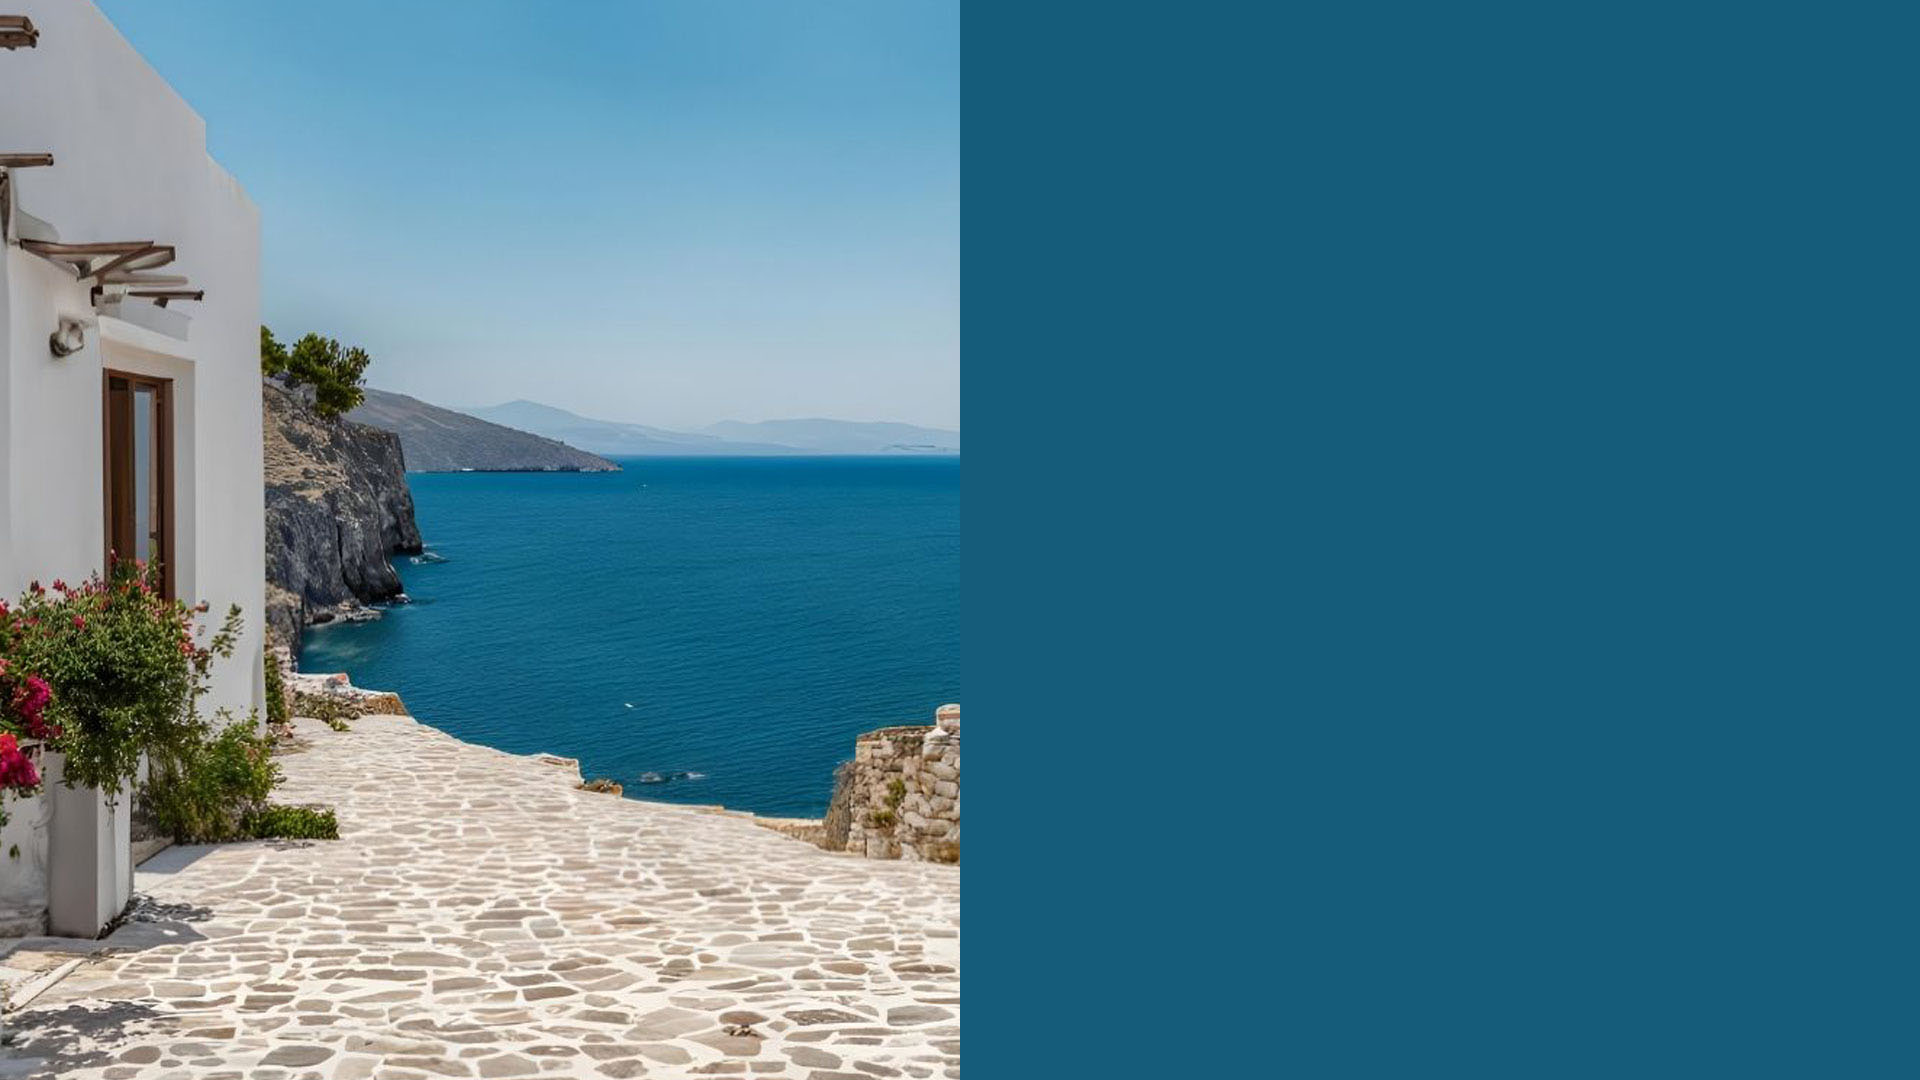
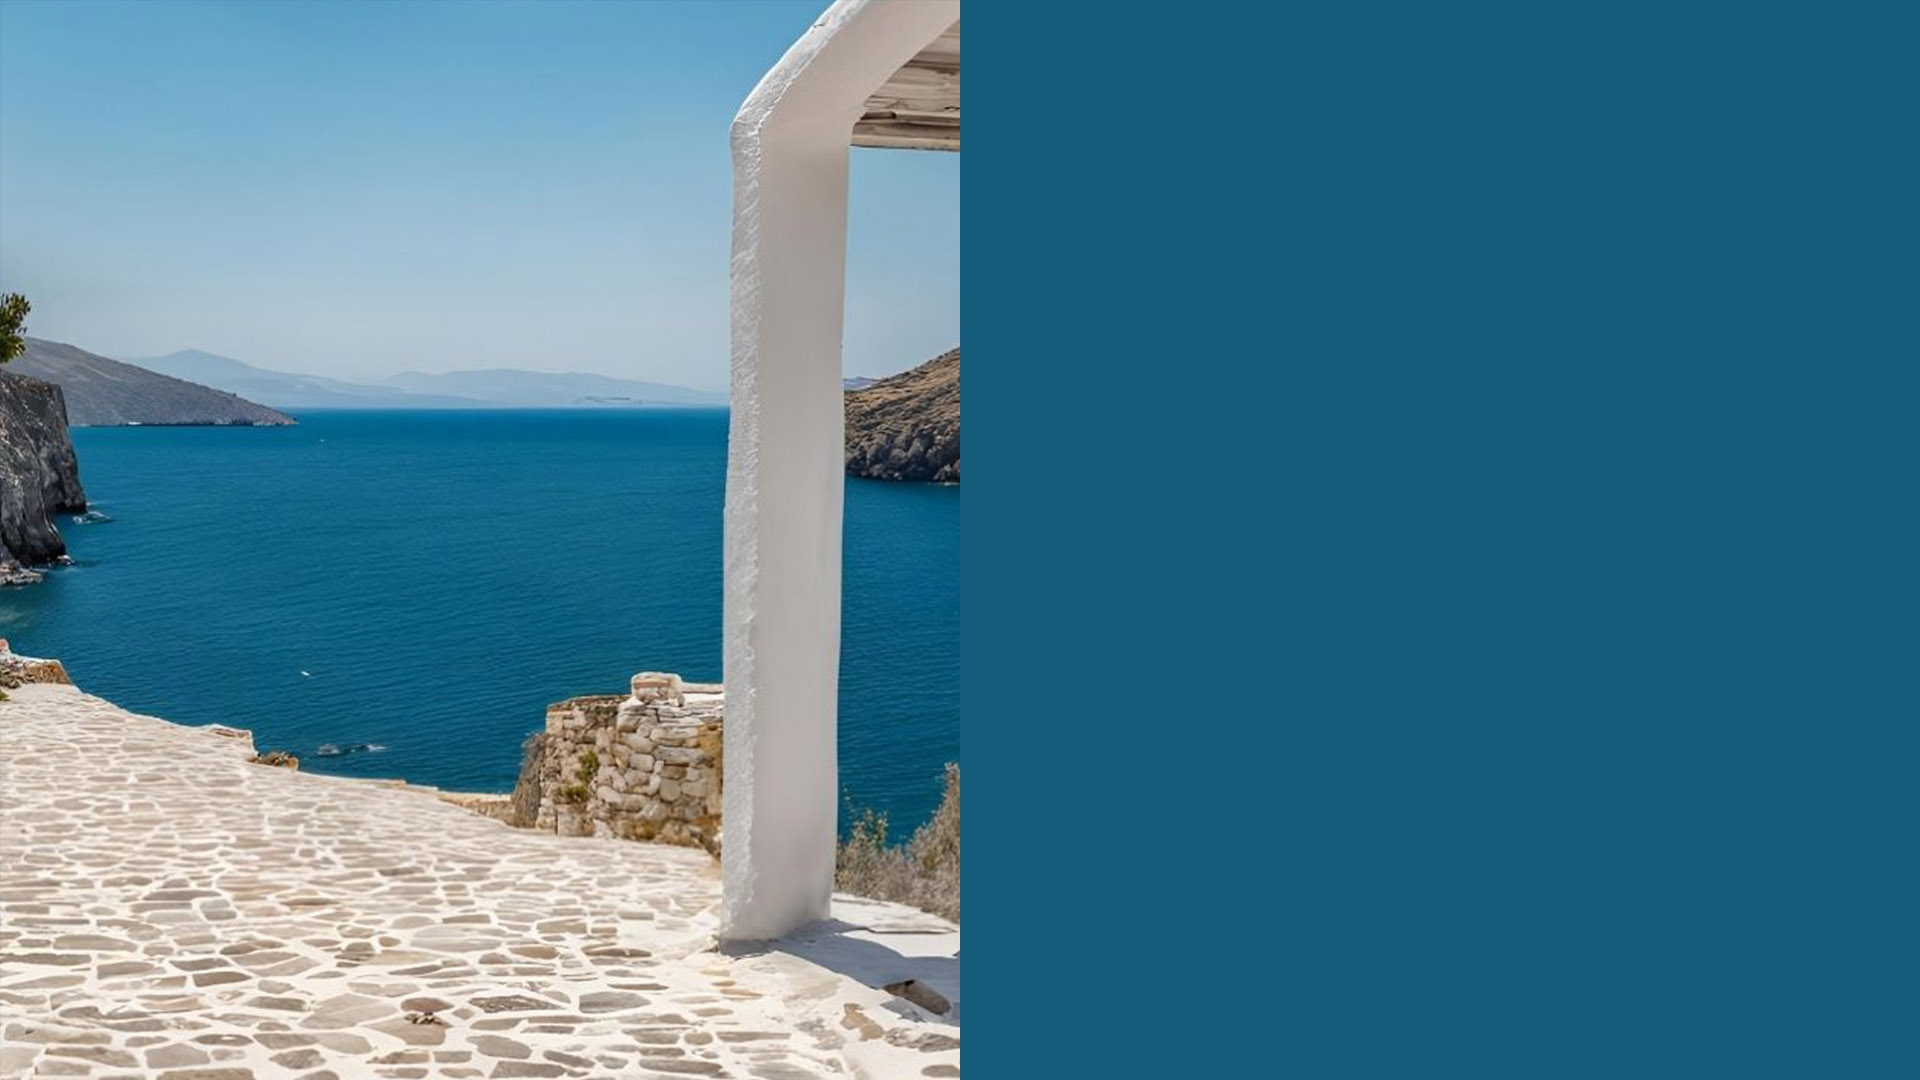
nova uniformização visual / css

diff --git a/frontend/src/styles/Login.css b/frontend/src/styles/Login.css
@@ -16,21 +16,6 @@
   padding-left: 1.25rem;
 }
 
-.auth-side-panel h2 {
-  margin: 0 0 1rem;
-  font-size: clamp(3rem, 5vw, 4.5rem);
-  line-height: 0.95;
-  color: var(--color-white);
-  text-shadow: var(--shadow-hard);
-}
-
-.auth-side-copy {
-  margin-bottom: 1.8rem;
-  font-size: 1.55rem;
-  font-weight: 700;
-  color: var(--color-white);
-}
-
 .login-card {
   width: min(100%, 560px);
   padding-top: 3rem;

diff --git a/frontend/src/styles/global.css b/frontend/src/styles/global.css
@@ -65,7 +65,8 @@ li {
 
 h1,
 h2,
-h3 {
+h3,
+h4 {
   font-family: "Syne", sans-serif;
   font-optical-sizing: auto;
   font-style: normal;
@@ -83,8 +84,10 @@ h1 {
 
 h2 {
   font-family: "Open Sans", sans-serif;
-  font-size:  4rem;
+  font-size:  3.8rem;
   line-height: 0.95;
+  margin-bottom: 1rem;
+  color: var(--color-white);
   text-shadow: var(--shadow-text);
 }
 
@@ -95,10 +98,12 @@ h3 {
 }
 
 h4 {
+  font-family: "Open Sans", sans-serif;
   text-transform: uppercase;
   margin-bottom: 1.8rem;
   font-size: 1.4rem;
   font-weight: 700;
+  color: var(--color-white);
   text-shadow: var(--shadow-text);
 }
 

diff --git a/frontend/src/styles/Register.css b/frontend/src/styles/Register.css
@@ -15,10 +15,10 @@
 
 .left-content-wrapper {
   max-width: 400px;
-  text-align: center;
+  text-align: left;
   display: flex;
   flex-direction: column;
-  align-items: center;
+  align-items: flex-start;
 }
 
 .register-side-copy {

diff --git a/frontend/src/pages/Login.jsx b/frontend/src/pages/Login.jsx
@@ -80,7 +80,7 @@ function Login() {
       <div className="auth-split auth-split-login">
         <section className="auth-side-panel">
           <h2>Don&apos;t have an account yet?</h2>
-          <p className="auth-side-copy">Sign up here:</p>
+          <h4>Sign up here:</h4>
 
           <Link to="/register" className="btn-base btn-light">
             Register

diff --git a/frontend/src/pages/Register.jsx b/frontend/src/pages/Register.jsx
@@ -81,7 +81,7 @@ export default function Register() {
         <div className="register-left-side">
           <div className="left-content-wrapper">
             <h2>Get Started!</h2>
-            <p className="p-white register-side-copy">Already have<br />an account?</p>
+            <h4>Already have<br />an account?</h4>
             <Link to="/login" className="btn-base btn-light">Login</Link>
           </div>
         </div>